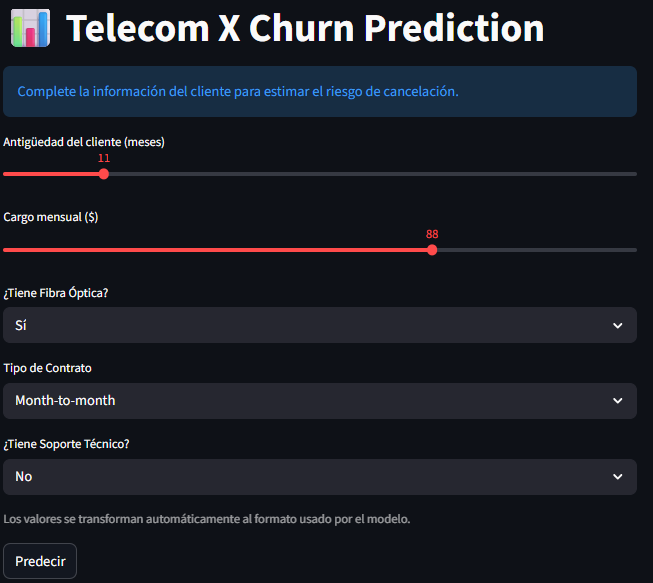
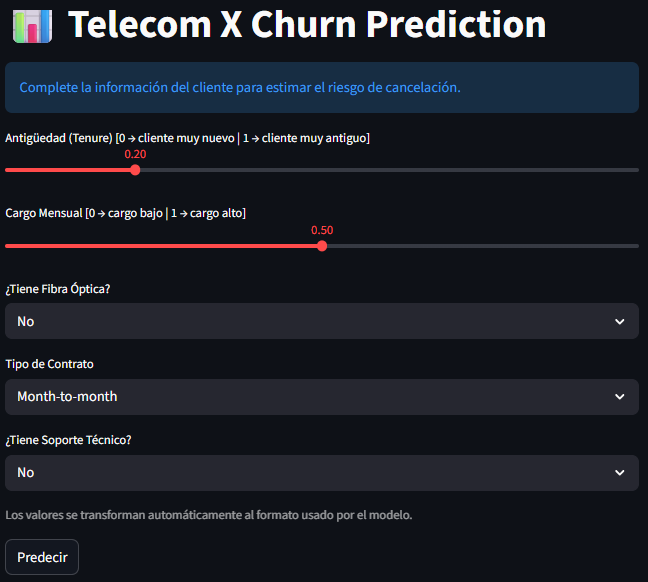
Actualización en README e imagenes

diff --git a/app/streamlit_app.py b/app/streamlit_app.py
@@ -5,30 +5,31 @@ import os
 import datetime
 
 
-st.set_page_config(page_title="Telecom Churn Predictor")
+st.set_page_config(page_title="Telecom X Churn Predictor")
 
 st.title("📊 Telecom X Churn Prediction")
-
-
-
-
-
-
 
 #st.write("Ingrese la información del cliente:")
 
 st.info("Complete la información del cliente para estimar el riesgo de cancelación.")
 # Inputs principales
 
+
 #En lugar que sea 0 y 1 cambiamos a meses
-#tenure = st.slider("Antigüedad (Tenure)", 0.0, 1.0) 
-tenure_months = st.slider("Antigüedad del cliente (meses)", 0, 72)
-tenure = tenure_months / 72
+#0  → cliente muy nuevo | 1  → cliente muy antiguo
+
+tenure = st.slider(" Antigüedad (Tenure) [0  → cliente muy nuevo | 1  → cliente muy antiguo]", 0.0, 1.0) 
+
+#tenure_months = st.slider("Antigüedad del cliente (meses) / (Tenure: 0-1) ", 0, 72)
+#tenure = tenure_months / 72
 
 #Mostrar dólares reales para cargo mensual
-#charges = st.slider("Cargo Mensual", 0.0, 1.0)
-monthly_charge = st.slider("Cargo mensual ($)", 20, 120)
-charges = (monthly_charge - 20) / (120 - 20)
+#0 → cargo bajo | 1 → cargo alto
+
+charges = st.slider(" Cargo Mensual [0 → cargo bajo | 1 → cargo alto] ", 0.0, 1.0)
+
+#monthly_charge = st.slider("Cargo mensual ($) / (Tenure: 0-1) ", 20, 120)
+#charges = (monthly_charge - 20) / (120 - 20)
 
 
 
@@ -125,8 +126,10 @@ if st.button("Predecir"):
 
     log = {
         "fecha": datetime.datetime.now(),
-        "tenure_meses": tenure_months,
-        "cargo_mensual": monthly_charge,
+        "tenure": tenure,
+        #"tenure_meses": tenure_months,
+        "cargo_mensual": charges,
+        #"cargo_mensual": monthly_charge,
         "fibra": fiber,
         "contrato": contract,
         "soporte": tech_support,
@@ -158,13 +161,12 @@ if os.path.exists("predicciones.csv"):
 #Histograma de cargos
 st.subheader("Distribución de Cargos Mensuales")
 
+# por temas de visualización se cambio por rangos.
 #st.bar_chart(hist["cargo_mensual"].value_counts(bins=10))
 
 bins = [0, 20, 40, 60, 80, 100, 150]
 labels = ["0-20", "21-40", "41-60", "61-80", "81-100", "100+"]
-
 hist["rango_cargo"] = pd.cut(hist["cargo_mensual"], bins=bins, labels=labels)
-
 st.bar_chart(hist["rango_cargo"].value_counts())
 
 
